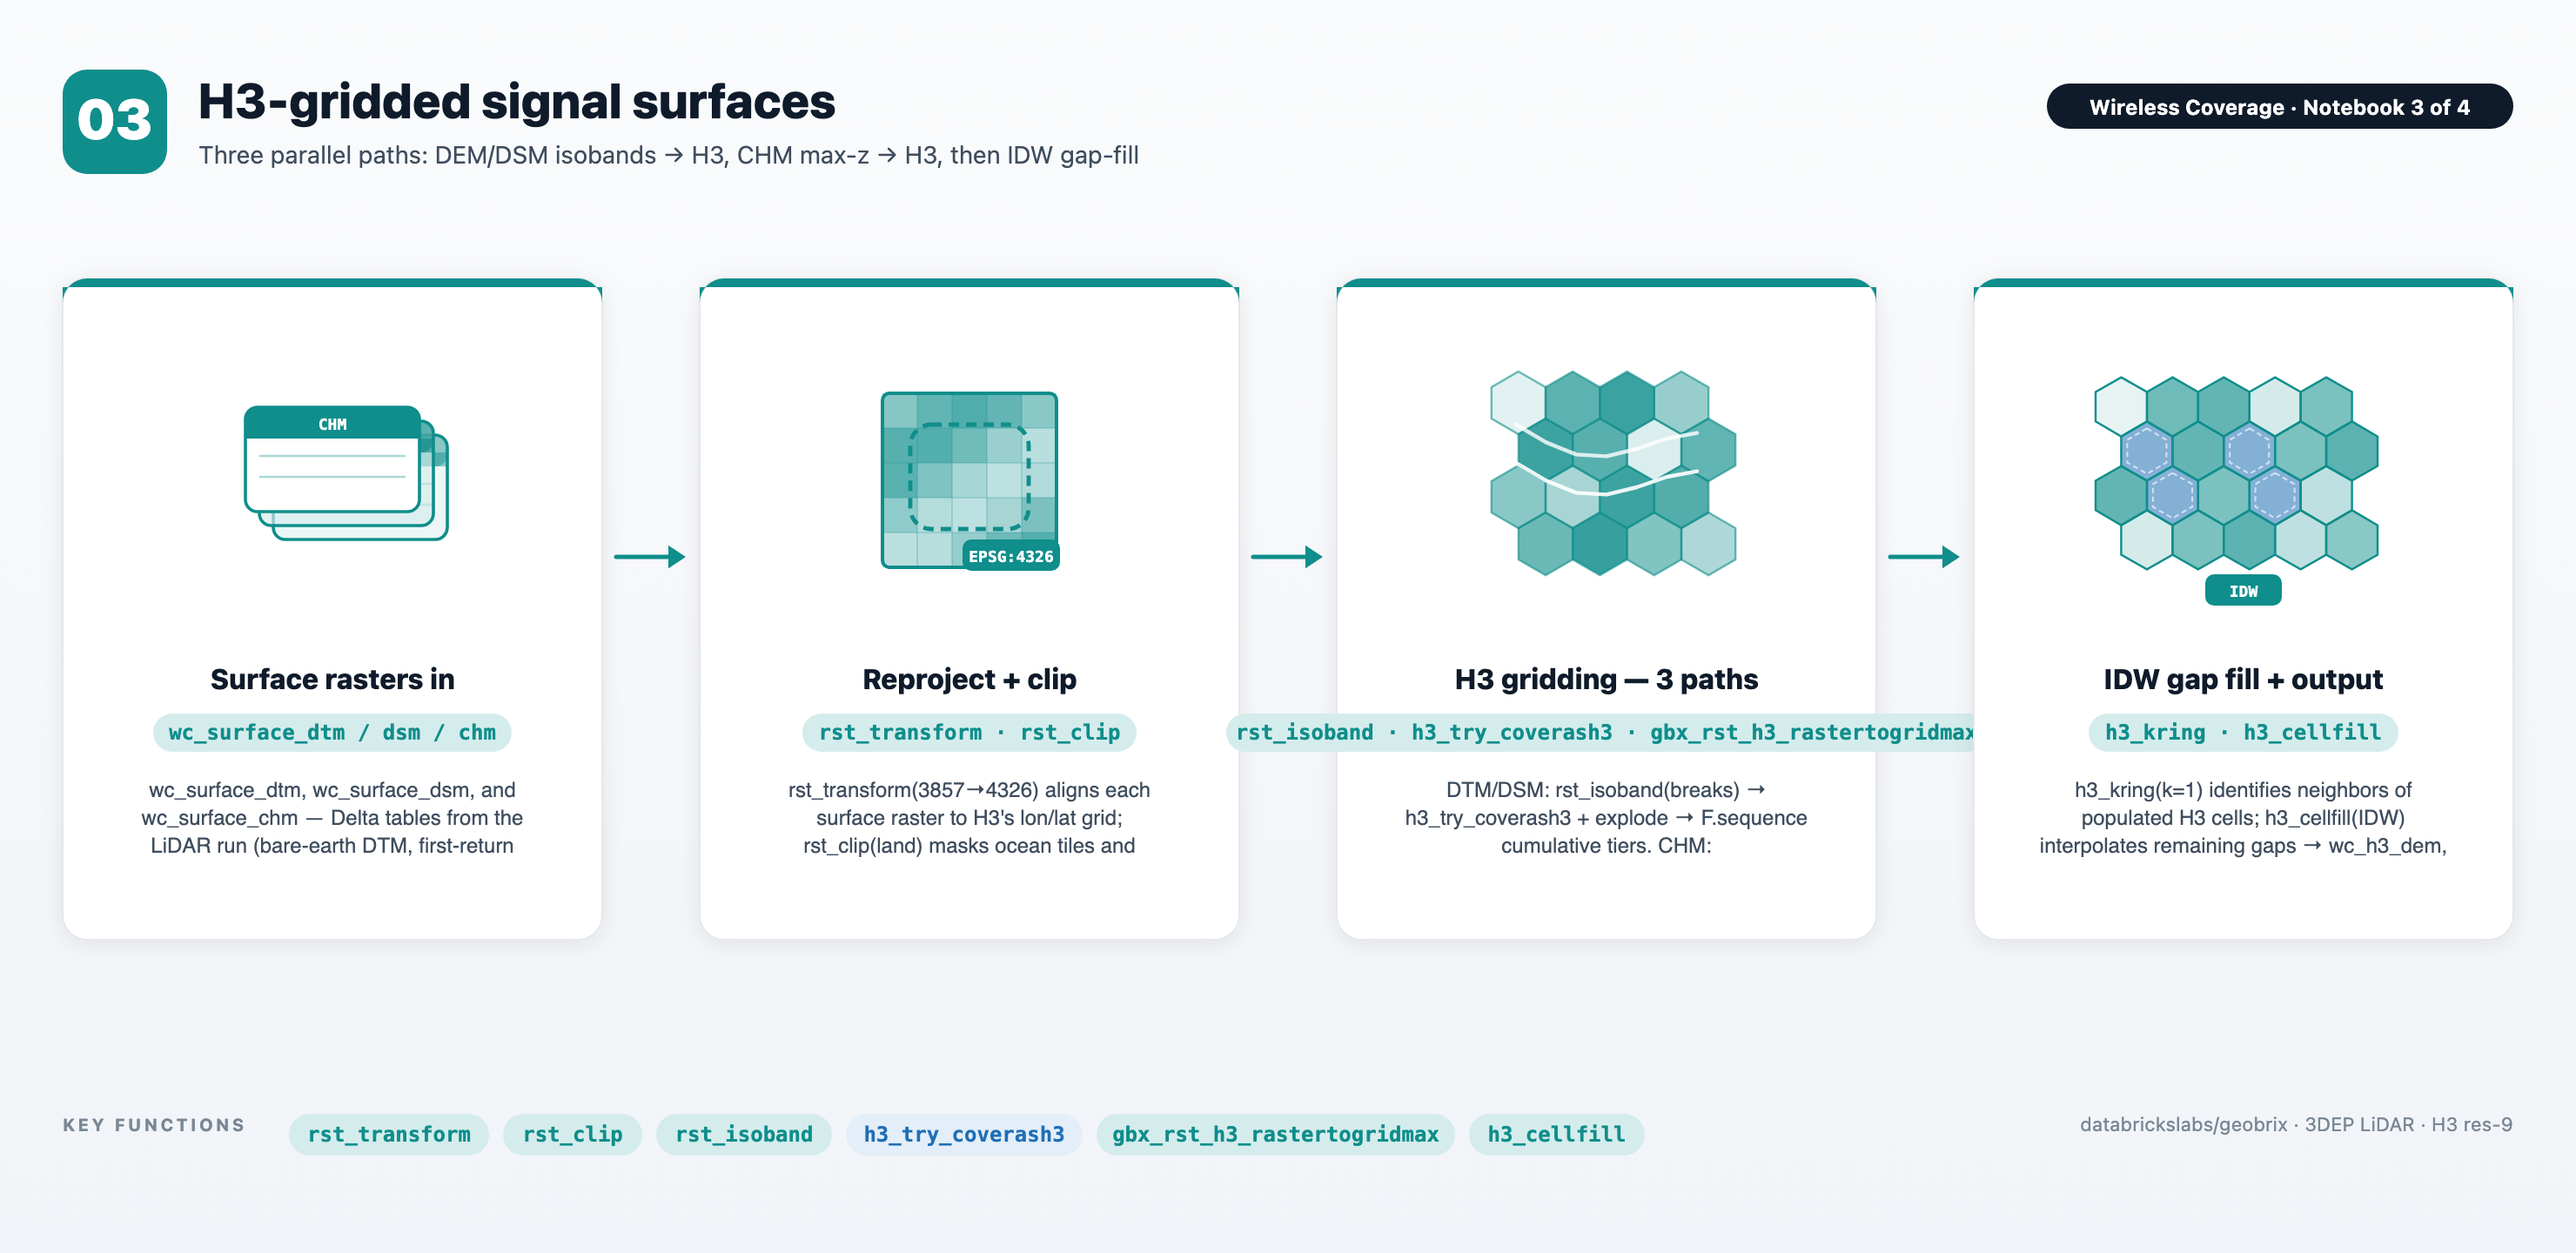
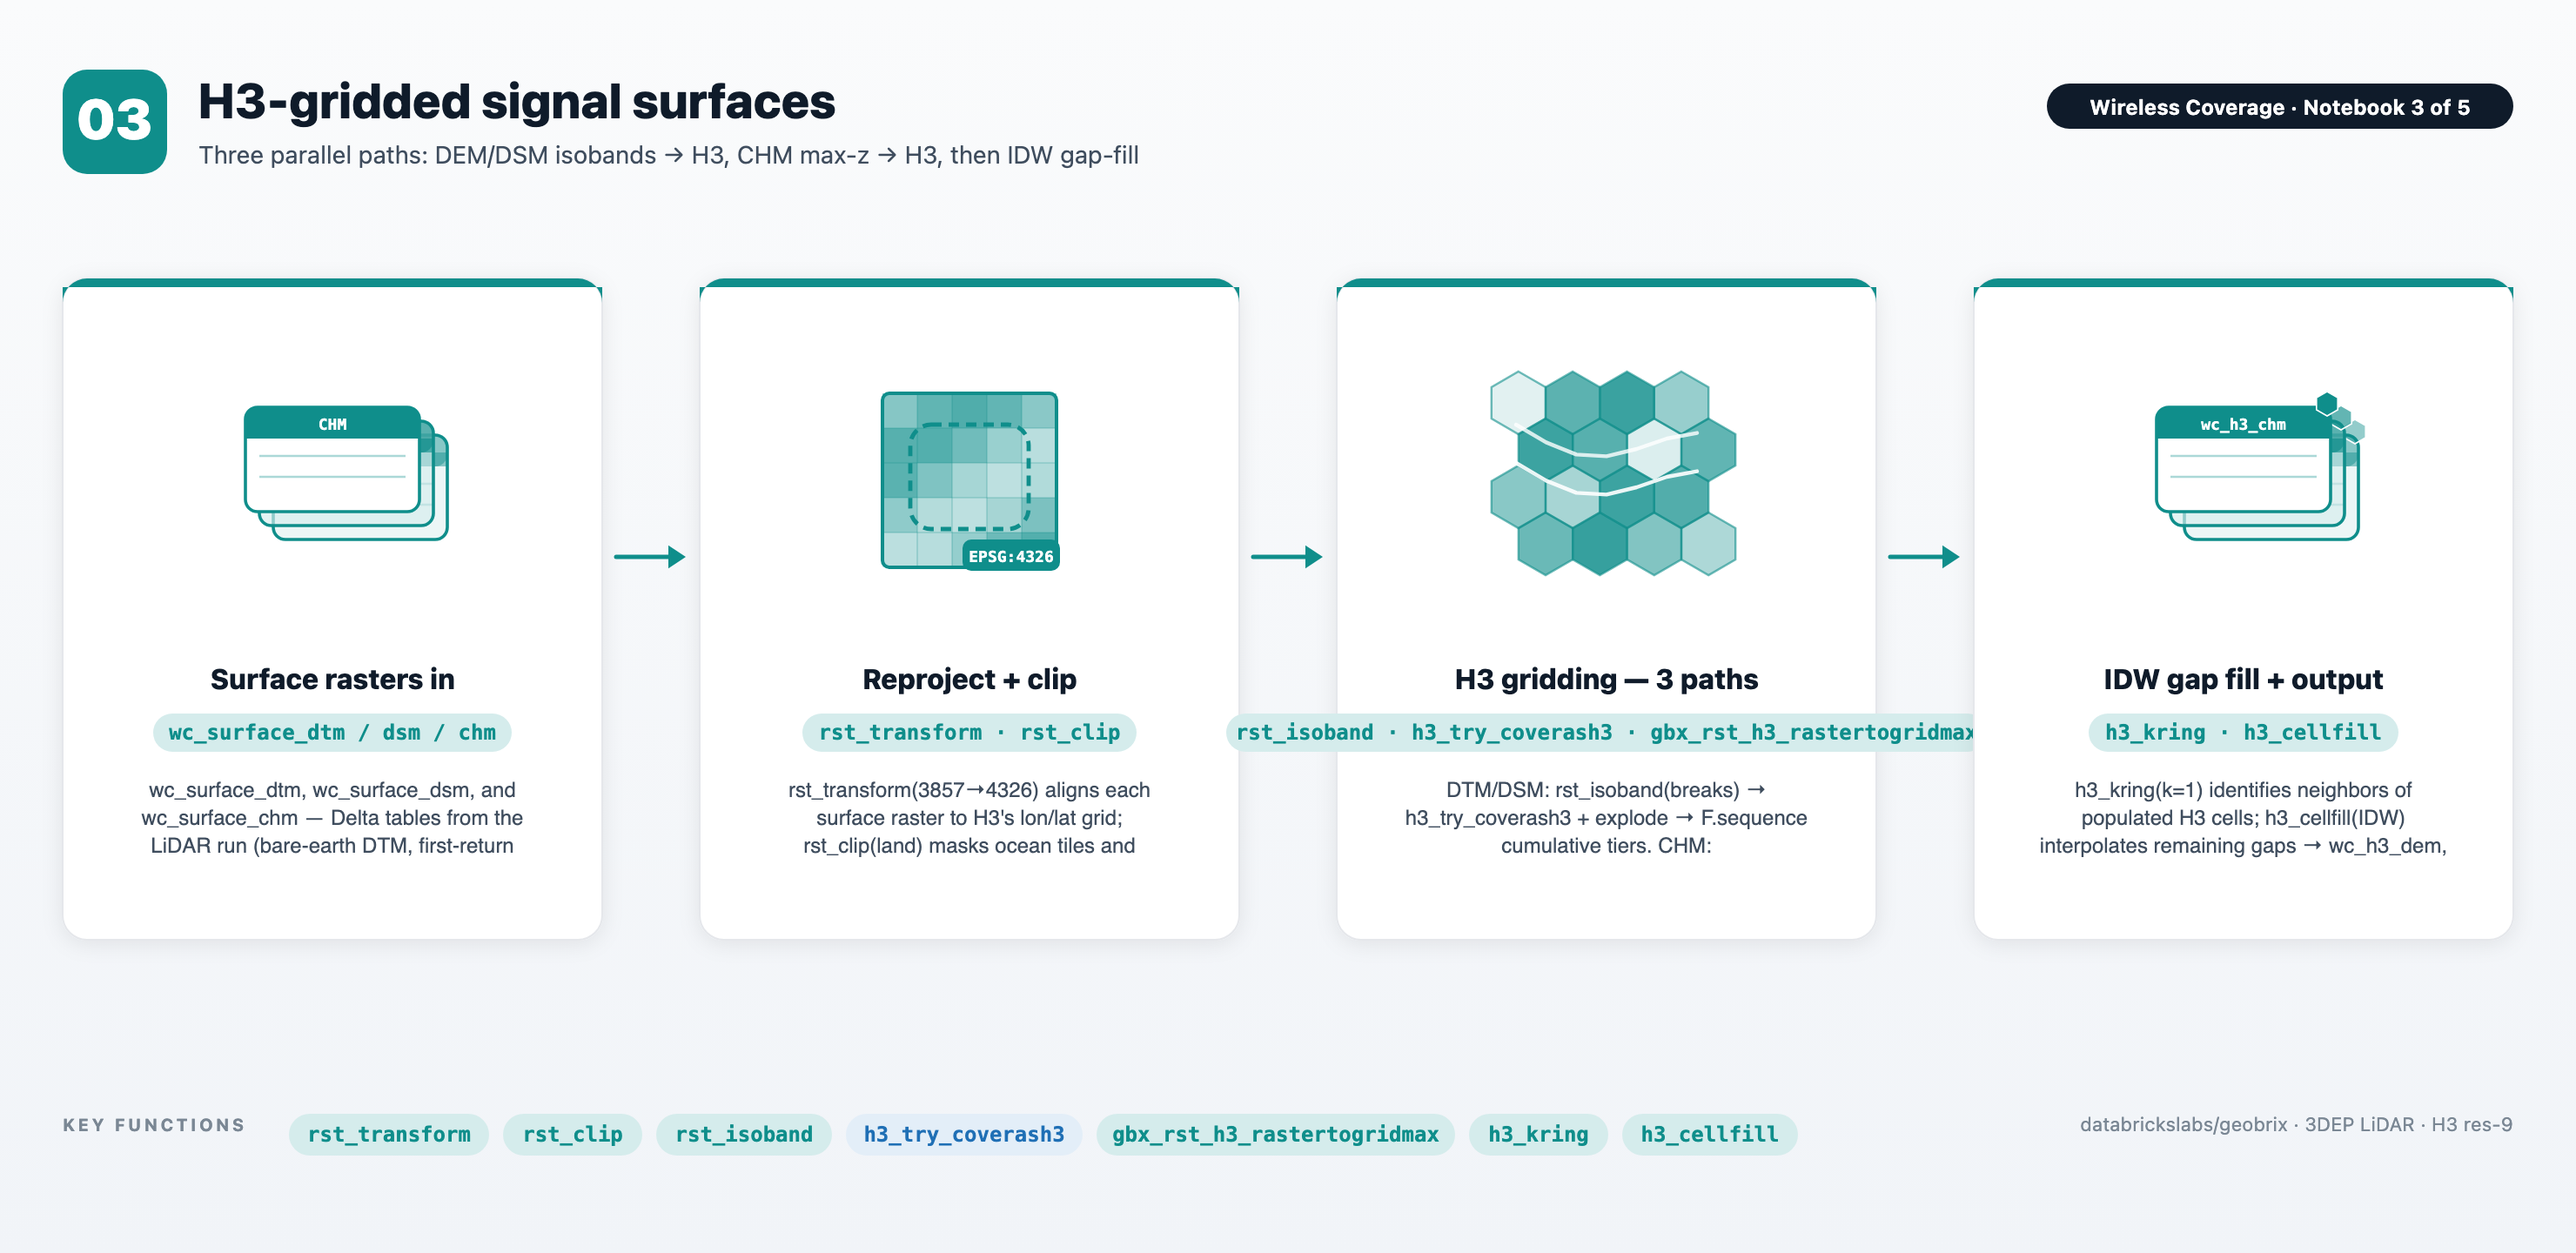
fix(diagram): wireless-coverage-03 round-1 corrections
- I1: series pill corrected to "Notebook 3 of 5" (series is nb1–nb5)
- #2: Stage 4 glyph replaced with g_three_h3_output_tables (stacked
  wc_h3_dem/dsm/chm Delta-table icons with hex badges), mirroring the
  Stage-1 input glyph for visual symmetry
- #1: collapsed dead for-i-in-range(6) loop in g_cellfill_idw to a
  single pts2 list-comp (a was unused; pts2 was identical each iteration)
- #4: added h3_kring to KEY FUNCTIONS footer chips
- #3: trailing newline on the SVG output
PNG re-rendered at 2960x1440, 327 KB.

Changed region(s): [[0.8081, 0.2812, 0.9324, 0.5], [0.5905, 0.875, 0.7149, 0.9375]]

diff --git a/resources/images/generators/wireless-coverage.py b/resources/images/generators/wireless-coverage.py
@@ -186,6 +186,58 @@ def g_three_path_h3(cx, cy, color, tint):
     return "".join(out)
 
 
+def g_three_h3_output_tables(cx, cy, color, tint):
+    """Three stacked Delta-table icons for the H3 output tables (DEM / DSM / CHM).
+
+    Mirrors g_three_surface_tables (Stage 1 inputs) so the diagram reads
+    symmetrically: Delta tables in → pipeline → Delta tables out.
+    A small hex badge on each header marks them as H3 cell tables.
+    """
+    labels = ["DEM", "DSM", "CHM"]
+    w, h = 100, 60
+    out = []
+    offsets = [(16, 16), (8, 8), (0, 0)]
+    opacities = [0.45, 0.65, 1.0]
+    for i, (dx, dy) in enumerate(offsets):
+        x = cx - w / 2 + dx
+        y = cy - h / 2 + dy - 16
+        op = opacities[i]
+        fill = "#FFFFFF" if i == 2 else tint
+        lbl = labels[i]
+        out.append(
+            f'<rect x="{x}" y="{y}" rx="7" ry="7" width="{w}" height="{h}" '
+            f'fill="{fill}" fill-opacity="{op}" stroke="{color}" stroke-width="1.8"/>'
+        )
+        out.append(
+            f'<rect x="{x}" y="{y}" width="{w}" height="18" rx="7" ry="7" '
+            f'fill="{color}" fill-opacity="{op}"/>'
+            f'<rect x="{x}" y="{y + 10}" width="{w}" height="8" '
+            f'fill="{color}" fill-opacity="{op}"/>'
+            f'<text x="{x + w/2}" y="{y + 13}" text-anchor="middle" '
+            f'font-family="ui-monospace, Menlo, monospace" font-size="9" '
+            f'font-weight="800" fill="#FFFFFF" fill-opacity="1">wc_h3_{lbl.lower()}</text>'
+        )
+        # Data rows
+        for r in range(2):
+            ry = y + 28 + r * 12
+            out.append(
+                f'<line x1="{x + 8}" y1="{ry}" x2="{x + w - 8}" y2="{ry}" '
+                f'stroke="{color}" stroke-opacity="0.35" stroke-width="1.2"/>'
+            )
+        # Hex badge (top-right corner) — marks this as an H3 cell table
+        hx, hy, hr = x + w - 2, y - 2, 7
+        hex_pts = " ".join(
+            f"{hx + hr*math.cos(math.radians(60*k-90)):.1f},"
+            f"{hy + hr*math.sin(math.radians(60*k-90)):.1f}"
+            for k in range(6)
+        )
+        out.append(
+            f'<polygon points="{hex_pts}" fill="{color}" fill-opacity="{op}" '
+            f'stroke="#FFFFFF" stroke-width="0.8"/>'
+        )
+    return "".join(out)
+
+
 def g_cellfill_idw(cx, cy, color, tint):
     """Dense hex grid with some cells shown as gap-filled (hatched → solid)."""
     out = []
@@ -213,13 +265,11 @@ def g_cellfill_idw(cx, cy, color, tint):
                 f'fill="{fill_clr}" fill-opacity="{fill_op:.2f}" '
                 f'stroke="{color}" stroke-width="1.2"/>'
             )
-            # dashed ring on filled cells (visual marker for IDW-interpolated)
+            # dashed inner ring on filled cells (visual marker for IDW-interpolated)
             if is_filled:
-                for i in range(6):
-                    a = math.radians(60 * i - 90)
-                    pts2 = [f"{x + (R-4)*math.cos(math.radians(60*j-90)):.1f},"
-                            f"{y + (R-4)*math.sin(math.radians(60*j-90)):.1f}"
-                            for j in range(6)]
+                pts2 = [f"{x + (R-4)*math.cos(math.radians(60*j-90)):.1f},"
+                        f"{y + (R-4)*math.sin(math.radians(60*j-90)):.1f}"
+                        for j in range(6)]
                 out.append(
                     f'<polygon points="{" ".join(pts2)}" fill="none" '
                     f'stroke="#FFFFFF" stroke-width="1" stroke-opacity="0.65" '
@@ -287,7 +337,7 @@ NB3 = dict(
         "Three parallel paths: DEM/DSM isobands → H3, CHM max-z → H3, "
         "then IDW gap-fill"
     ),
-    series_pill="Wireless Coverage  ·  Notebook 3 of 4",
+    series_pill="Wireless Coverage  ·  Notebook 3 of 5",
     stages=[
         Stage(
             title="Surface rasters in",
@@ -323,7 +373,7 @@ NB3 = dict(
                 "h3_kring(k=1) identifies neighbors of populated H3 cells; "
                 "h3_cellfill(IDW) interpolates remaining gaps → wc_h3_dem, wc_h3_dsm, wc_h3_chm"
             ),
-            glyph=g_cellfill_idw,
+            glyph=g_three_h3_output_tables,
             chip_text="h3_kring · h3_cellfill",
         ),
     ],
@@ -334,15 +384,17 @@ NB3 = dict(
         "rst_isoband",
         "h3_try_coverash3",
         "gbx_rst_h3_rastertogridmax",
+        "h3_kring",
         "h3_cellfill",
     ],
     footer_chip_colors=[
-        (ACCENT, TINT),    # rst_transform — GeoBrix
-        (ACCENT, TINT),    # rst_clip — GeoBrix
-        (ACCENT, TINT),    # rst_isoband — GeoBrix
+        (ACCENT, TINT),      # rst_transform — GeoBrix
+        (ACCENT, TINT),      # rst_clip — GeoBrix
+        (ACCENT, TINT),      # rst_isoband — GeoBrix
         (ACCENT_2, TINT_2),  # h3_try_coverash3 — product built-in
-        (ACCENT, TINT),    # gbx_rst_h3_rastertogridmax — GeoBrix
-        (ACCENT, TINT),    # h3_cellfill — GeoBrix
+        (ACCENT, TINT),      # gbx_rst_h3_rastertogridmax — GeoBrix
+        (ACCENT, TINT),      # h3_kring — GeoBrix
+        (ACCENT, TINT),      # h3_cellfill — GeoBrix
     ],
     note="databrickslabs/geobrix  ·  3DEP LiDAR  ·  H3 res-9",
 )
@@ -407,6 +459,7 @@ def main():
     path = os.path.join(out_dir, "wireless-coverage-03.svg")
     with open(path, "w") as f:
         f.write(render_diagram())
+        f.write("\n")
     print(f"wrote {path}")
 
 
